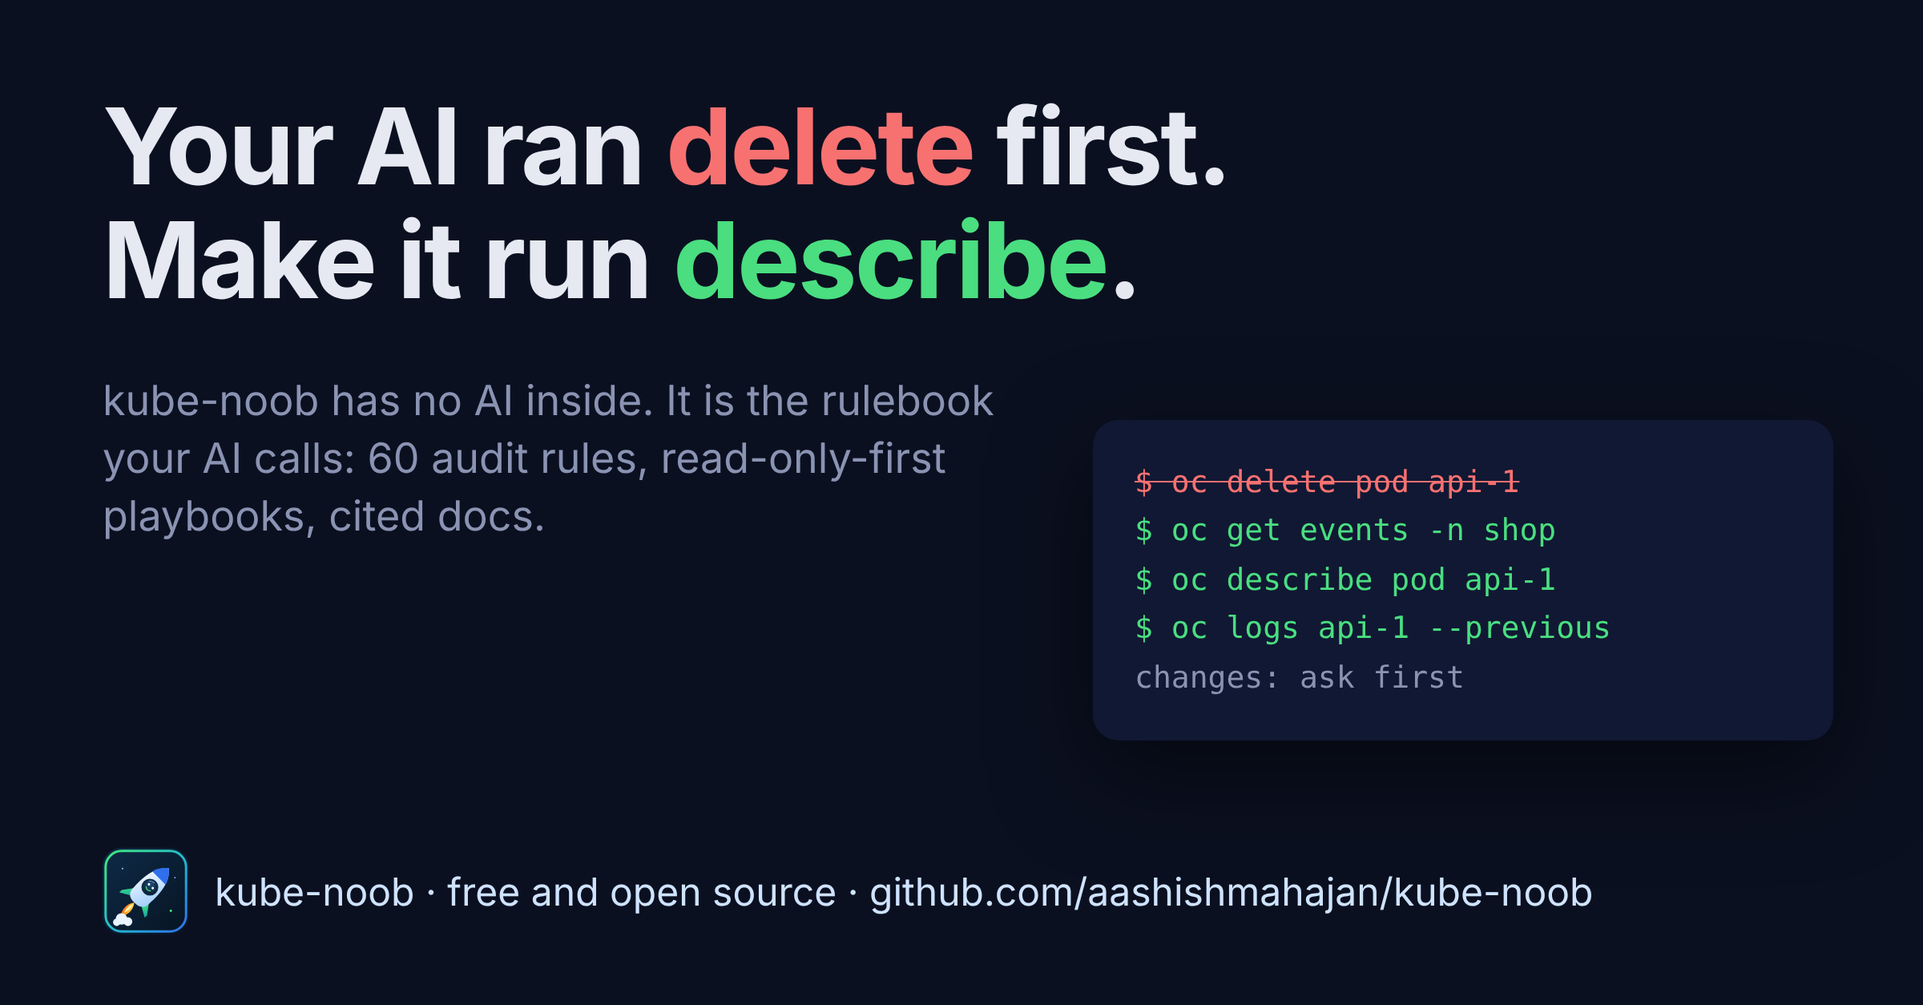
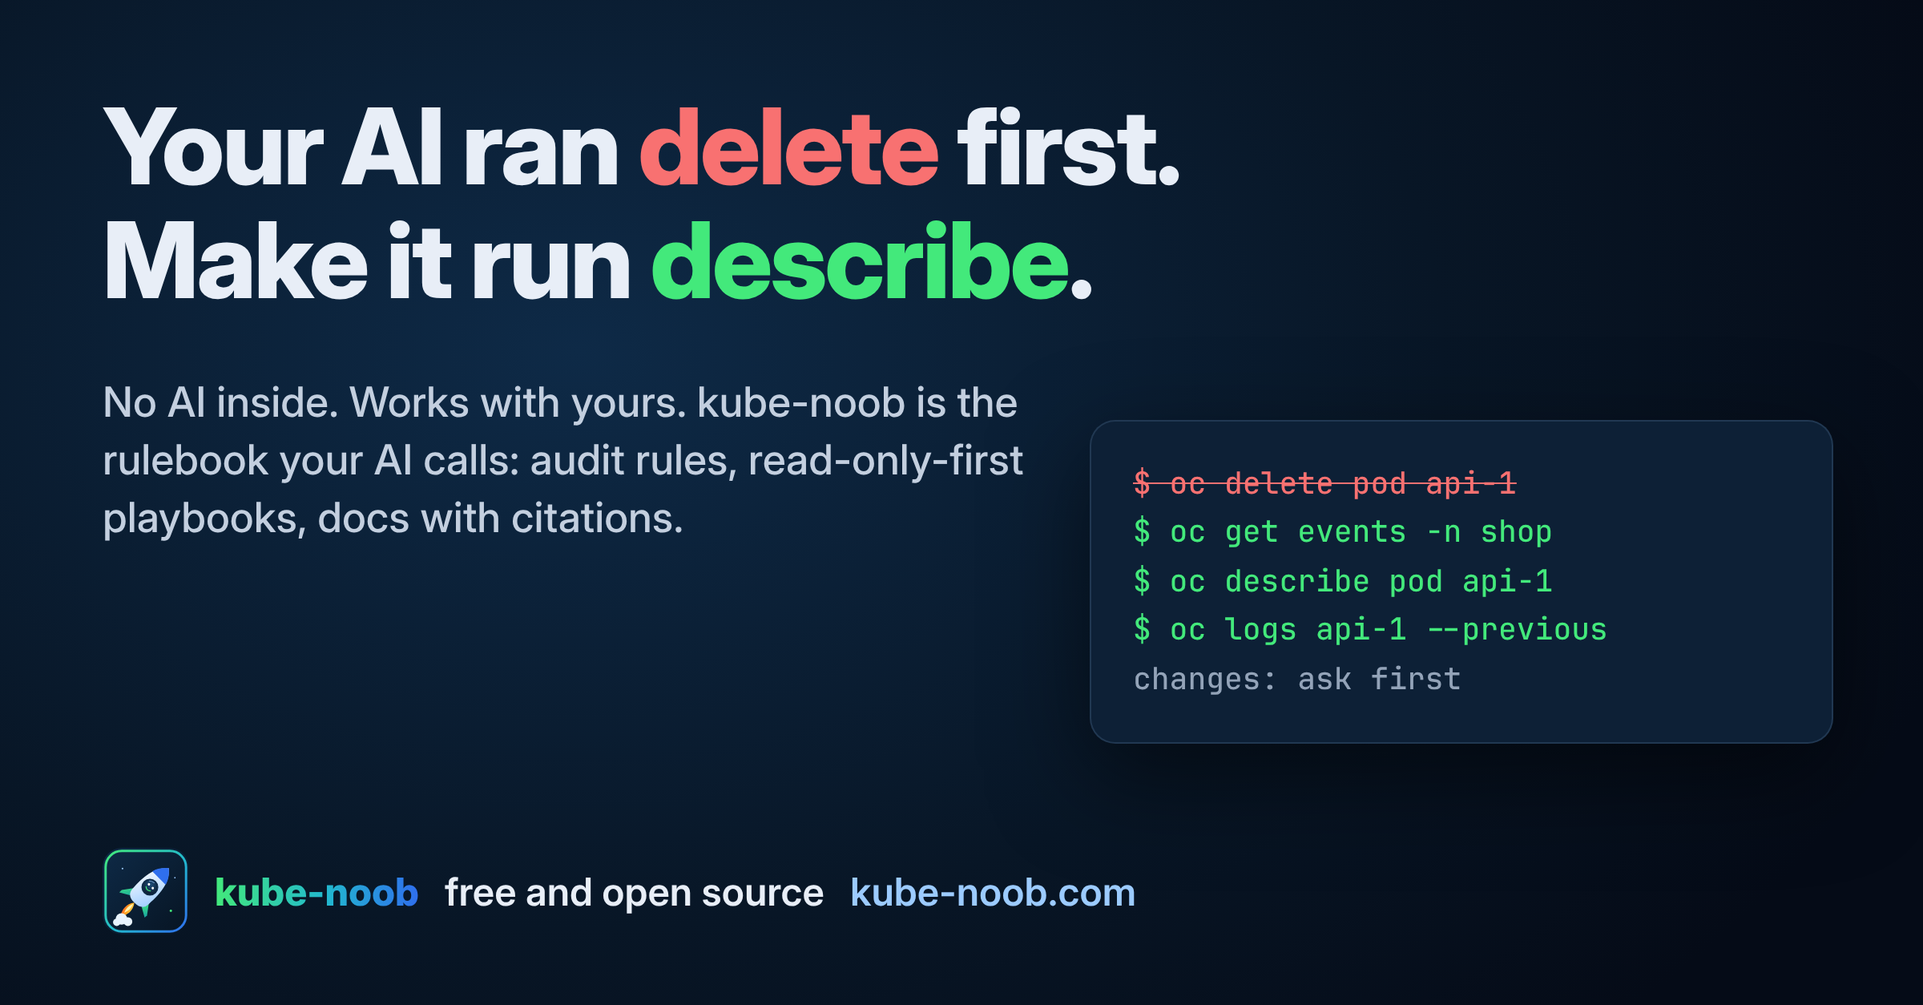
Brand review fixes: brand images in the brand, README counts tested
End-to-end review against docs/brand/BRAND.md:
- BRAND.md named the wrong headline under test. docs/roadmap.md tests the
  tagline against "The ground truth your AI SRE checks against"; that is now
  the line never shown next to the tagline, and "the rulebook your AI calls"
  is the allowed descriptor. tests/test_brand.py reads it from the roadmap.
- LinkedIn banner: "read-only first, cited, offline" overclaimed (not every
  answer is cited) and the CTA was pipx; now "read-only first, offline, the
  same answer every time", uv tool install kube-noob and kube-noob.com.
- LinkedIn post: "60 audit rules" (61); static images now carry no count.
- All four brand images (social preview, banner, post, profile) were drawn in
  whatever Inter the machine had, DejaVu Mono and off-palette colours; they
  now take the bundled fonts, token colours, icon and words through brand.js
  (render.js applies and verifies it, brand-page.js fills the text) and were
  re-rendered.
- README: the trademark line named six of the eleven products the README
  mentions; it is now the full line from tokens.json. Its counts are checked
  against the code (61 rules, 67 playbooks, 9 red-team scenarios, 5 tracks
  and 16 lessons, the 7-step protocol). Kept under its 600-word limit.

Claude-Session: https://claude.ai/code/session_018aFMdzbbPcksN3wUu96SVk

diff --git a/docs/brand/linkedin/post.html b/docs/brand/linkedin/post.html
@@ -1,16 +1,23 @@
-<!doctype html><html><head><meta charset="utf-8"><style>
-html,body{margin:0;width:1200px;height:627px;overflow:hidden;background:#0b1020;color:#e6e9f2;font-family:"Inter","Inter Display",system-ui,sans-serif}
+<!doctype html><html><head><meta charset="utf-8"><title>kube-noob LinkedIn post image</title>
+<!-- 1200x627, rendered at 2x by docs/brand/render.js; fonts, colours, icon and words from the brand (brand.js).
+     No counts: a static image cannot keep a number true; the copy that goes with it can (demos/video/facts.py). -->
+<style>
+html,body{margin:0;width:1200px;height:627px;overflow:hidden;color:var(--kn-ink);font-family:var(--sans);
+  background:radial-gradient(ellipse 900px 600px at 30% 35%, var(--kn-navy) 0%, var(--kn-navy-deep) 60%, var(--kn-navy-night) 100%)}
 .left{position:absolute;left:64px;top:56px;width:1080px}
-h1{font-size:66px;line-height:1.08;margin:0;letter-spacing:-1.5px}
-h1 .no{color:#f87171}.yes{color:#4ade80}
-p{font-size:26px;color:#8a93b2;margin-top:34px;line-height:1.4;width:600px}
-.term{position:absolute;right:56px;top:262px;width:410px;background:#111833;border-radius:16px;padding:24px 26px;font-family:"DejaVu Sans Mono",monospace;font-size:19px;line-height:1.6;box-shadow:0 20px 60px rgba(0,0,0,.5)}
-.x{color:#f87171;text-decoration:line-through}.g{color:#4ade80}.d{color:#8a93b2}
-.foot{position:absolute;left:64px;bottom:44px;display:flex;align-items:center;font-size:24px;color:#cfe3ff}
-.foot img{width:54px;height:54px;margin-right:16px}
+h1{font-size:66px;font-weight:800;line-height:1.08;margin:0;letter-spacing:-1.5px}
+h1 .no{color:var(--kn-danger)}.yes{color:var(--kn-green)}
+p{font-size:26px;font-weight:500;color:var(--kn-ink-soft);margin-top:34px;line-height:1.4;width:600px}
+.term{position:absolute;right:56px;top:262px;width:410px;background:var(--kn-panel);border:1px solid rgba(var(--kn-sky-rgb),.14);border-radius:16px;padding:24px 26px;font:500 19px/1.6 var(--mono);box-shadow:0 20px 60px rgba(0,0,0,.5)}
+.x{color:var(--kn-danger);text-decoration:line-through}.g{color:var(--kn-green)}.d{color:var(--kn-muted)}
+.foot{position:absolute;left:64px;bottom:44px;display:flex;align-items:center;gap:16px;font-size:24px;font-weight:600}
+.foot img{width:54px;height:54px;border-radius:12px}
+.foot .wm{font-weight:800;background:linear-gradient(90deg,var(--kn-green),var(--kn-teal) 55%,var(--kn-blue));-webkit-background-clip:text;background-clip:text;color:transparent}
+.foot .url{color:var(--kn-sky)}
 </style></head><body>
 <div class="left"><h1>Your AI ran <span class="no">delete</span> first.<br>Make it run <span class="yes">describe</span>.</h1>
-<p>kube-noob has no AI inside. It is the rulebook your AI calls: 60 audit rules, read-only-first playbooks, cited docs.</p></div>
+<p><span data-kn="tagline"></span> kube-noob is the rulebook your AI calls: audit rules, read-only-first playbooks, docs with citations.</p></div>
 <div class="term"><div class="x">$ oc delete pod api-1</div><div class="g">$ oc get events -n shop</div><div class="g">$ oc describe pod api-1</div><div class="g">$ oc logs api-1 --previous</div><div class="d">changes: ask first</div></div>
[1 lines of base64/hex data omitted]
+<div class="foot"><img alt=""><span class="wm">kube-noob</span><span>free and open source</span><span class="url" data-kn="url"></span></div>
+<script src="../brand-page.js"></script>
 </body></html>

diff --git a/docs/brand/linkedin/banner.html b/docs/brand/linkedin/banner.html
@@ -1,15 +1,20 @@
-<!doctype html><html><head><meta charset="utf-8"><style>
-html,body{margin:0;width:1584px;height:396px;overflow:hidden;background:linear-gradient(110deg,#071422 0%,#0e2a47 60%,#123a63 100%);color:#e6e9f2;font-family:"Inter","Inter Display",system-ui,sans-serif}
+<!doctype html><html><head><meta charset="utf-8"><title>kube-noob LinkedIn banner</title>
+<!-- 1584x396, rendered at 2x by docs/brand/render.js; fonts, colours, icon and words from the brand (brand.js). -->
+<style>
+html,body{margin:0;width:1584px;height:396px;overflow:hidden;color:var(--kn-ink);font-family:var(--sans);
+  background:linear-gradient(110deg,var(--kn-navy-night) 0%,var(--kn-navy-deep) 35%,var(--kn-navy) 100%)}
 .left{position:absolute;left:360px;top:78px;width:860px}
-h1{font-size:46px;white-space:nowrap;margin:0;letter-spacing:-1px;line-height:1.05}
-h1 span{color:#43E97B}
-p{font-size:28px;color:#9fb0d0;margin:22px 0 0}
-.pills{position:absolute;left:360px;bottom:46px;font-family:"DejaVu Sans Mono",monospace;font-size:22px;color:#cfe3ff}
-.pills b{background:rgba(255,255,255,.08);border:1px solid rgba(255,255,255,.14);border-radius:10px;padding:8px 14px;margin-right:12px;font-weight:normal}
+h1{font-size:46px;font-weight:800;white-space:nowrap;margin:0;letter-spacing:-1px;line-height:1.05}
+h1 span{color:var(--kn-green)}
+p{font-size:28px;font-weight:500;color:var(--kn-ink-soft);margin:22px 0 0}
+.pills{position:absolute;left:360px;bottom:46px;font:500 22px var(--mono);color:var(--kn-green-soft)}
+.pills b{background:rgba(255,255,255,.06);border:1px solid rgba(var(--kn-green-rgb),.35);border-radius:10px;padding:8px 14px;margin-right:12px;font-weight:500}
+.pills .url{font-family:var(--sans);font-weight:600;color:var(--kn-sky);border-color:rgba(var(--kn-sky-rgb),.35)}
 img{position:absolute;right:56px;top:83px;width:230px;height:230px;filter:drop-shadow(0 20px 40px rgba(0,0,0,.5))}
 </style></head><body>
 <div class="left"><h1>No AI inside. <span>Works with yours.</span></h1>
-<p>The Kubernetes and OpenShift rulebook your AI is missing:<br>read-only first, cited, offline.</p></div>
-<div class="pills"><b>pipx install kube-noob</b><b>brew</b><b>Claude plugin</b><b>OpenShift sidecar</b></div>
[1 lines of base64/hex data omitted]
+<p>The Kubernetes and OpenShift rulebook your AI calls:<br>read-only first, offline, the same answer every time.</p></div>
+<div class="pills"><b data-kn="install"></b><b>Claude plugin</b><b>OpenShift sidecar</b><b class="url" data-kn="url"></b></div>
+<img alt="">
+<script src="../brand-page.js"></script>
 </body></html>

diff --git a/docs/brand/linkedin/profile.html b/docs/brand/linkedin/profile.html
@@ -1,5 +1,10 @@
-<!doctype html><html><head><meta charset="utf-8"><style>
-html,body{margin:0;width:800px;height:800px;overflow:hidden;background:radial-gradient(circle at 30% 25%,#123a63 0%,#0a1a2e 55%,#060e1a 100%);}
+<!doctype html><html><head><meta charset="utf-8"><title>kube-noob LinkedIn profile image</title>
+<!-- 800x800, rendered at 3x by docs/brand/render.js; colours and the icon from the brand (brand.js). -->
+<style>
+html,body{margin:0;width:800px;height:800px;overflow:hidden;font-family:var(--sans);
+  background:radial-gradient(circle at 30% 25%,var(--kn-navy) 0%,var(--kn-navy-deep) 55%,var(--kn-navy-night) 100%)}
 .wrap{position:absolute;inset:0;display:flex;align-items:center;justify-content:center}
 img{width:560px;height:560px;filter:drop-shadow(0 30px 60px rgba(0,0,0,.55))}
[1 lines of base64/hex data omitted]
+</style></head><body><div class="wrap"><img alt=""></div>
+<script src="../brand-page.js"></script>
+</body></html>

diff --git a/docs/brand/social-preview.html b/docs/brand/social-preview.html
@@ -3,33 +3,37 @@
 <head>
 <meta charset="utf-8">
 <title>kube-noob social preview</title>
-<!-- README hero and GitHub social preview. Rendered by docs/brand/render.js at 2x (2560x1280) and 1x (1280x640). -->
+<!-- README hero and GitHub social preview. Rendered by docs/brand/render.js at 2x (2560x1280) and 1x (1280x640);
+     fonts, colours, the icon and the words come from tokens.json through demos/video/brand.js. -->
 <style>
   * { box-sizing: border-box; margin: 0; }
   html, body { width: 1280px; height: 640px; overflow: hidden; }
-  body { font-family: "Inter", "Inter Display", system-ui, sans-serif; color: #f3f7ff;
-    background: radial-gradient(ellipse 1000px 620px at 30% 35%, #17386a 0%, #0d2245 52%, #081631 100%); }
+  body { font-family: var(--sans); color: var(--kn-ink);
+    background: radial-gradient(ellipse 1000px 620px at 30% 35%, var(--kn-navy) 0%, var(--kn-navy-deep) 52%, var(--kn-navy-night) 100%); }
   .glow { position: absolute; left: 70px; top: 150px; width: 360px; height: 360px; border-radius: 50%;
-    background: radial-gradient(closest-side, rgba(67, 233, 123, .22), transparent); }
+    background: radial-gradient(closest-side, rgba(var(--kn-green-rgb), .22), transparent); }
   .wrap { position: absolute; left: 92px; top: 0; height: 640px; display: flex; align-items: center; gap: 58px; }
   img { width: 300px; height: 300px; filter: drop-shadow(0 18px 40px rgba(0, 0, 0, .45)); }
-  .wm { font: 800 142px/0.95 "Inter Display", "Inter", sans-serif; letter-spacing: -0.035em; padding-bottom: 10px;
-    background: linear-gradient(90deg, #43e97b, #22b8cf 55%, #2f6fed); -webkit-background-clip: text; background-clip: text; color: transparent; }
+  .wm { font: 800 142px/0.95 var(--sans); letter-spacing: -0.035em; padding-bottom: 10px;
+    background: linear-gradient(90deg, var(--kn-green), var(--kn-teal) 55%, var(--kn-blue)); -webkit-background-clip: text; background-clip: text; color: transparent; }
   .tag { font-weight: 700; font-size: 40px; letter-spacing: -0.01em; margin-top: 18px; }
-  .plat { font-weight: 500; font-size: 27px; color: #bcd3f2; margin-top: 22px; }
-  .surf { font-weight: 600; font-size: 24px; color: #4ade80; margin-top: 14px; }
+  .plat { font-weight: 500; font-size: 27px; color: var(--kn-ink-soft); margin-top: 22px; }
+  .surf { font-weight: 600; font-size: 24px; color: var(--kn-green); margin-top: 14px; }
+  .url { font-weight: 600; font-size: 26px; color: var(--kn-sky); margin-top: 18px; }
 </style>
 </head>
 <body>
   <div class="glow"></div>
   <div class="wrap">
-    <img src="kube-noob-icon.svg" alt="">
+    <img alt="">
     <div>
       <div class="wm">kube-noob</div>
-      <div class="tag">No AI inside. Works with yours.</div>
-      <div class="plat">Kubernetes · OpenShift · ROSA HCP · Helm · RHACS</div>
-      <div class="surf">CLI · Claude plugin · MCP server · OpenShift sidecar</div>
+      <div class="tag" data-kn="tagline"></div>
+      <div class="plat" data-kn="platforms"></div>
+      <div class="surf" data-kn="surfaces"></div>
+      <div class="url" data-kn="url"></div>
     </div>
   </div>
+<script src="brand-page.js"></script>
 </body>
 </html>

diff --git a/docs/brand/render.js b/docs/brand/render.js
@@ -3,11 +3,14 @@
 //
 // Each page is laid out at the size the platform recommends and rendered at 2x or 3x that, so it stays sharp on
 // high-density screens; platforms scale it down themselves. Uploads with a size cap get their own copy.
-// Needs: Node with the `playwright` package and Chromium.
+// Fonts, colours, the icon and the words come from tokens.json through demos/video/brand.js (and brand-page.js), as
+// in the videos; a render stops if a brand font did not load.
+// Needs: Node with the `playwright` package and Chromium (demos/video/package.json pins it).
 'use strict';
 const fs = require('fs');
 const path = require('path');
 const { chromium } = require('playwright');
+const { applyBrand, verifyBrand } = require('../../demos/video/brand');
 
 const HERE = __dirname;
 const JOBS = [
@@ -26,9 +29,13 @@ async function main() {
   const browser = await chromium.launch();
   for (const [src, [w, h], scale, name] of JOBS) {
     const page = await browser.newPage({ viewport: { width: w, height: h }, deviceScaleFactor: scale });
+    const errors = [];
+    page.on('pageerror', e => errors.push(String(e)));
+    await applyBrand(page); // fonts, colours, the icon and the words from tokens.json
     await page.goto('file://' + path.join(HERE, src));
-    await page.evaluate(() => document.fonts.ready);
-    await page.waitForFunction(() => [...document.images].every(i => i.complete));
+    await page.evaluate(() => window.__ready);
+    await verifyBrand(page); // stops if a brand font did not load
+    if (errors.length) throw new Error(`${src}: ${errors[0]}`);
     const file = path.join(out, name);
     fs.mkdirSync(path.dirname(file), { recursive: true });
     await page.screenshot({ path: file });

diff --git a/docs/brand/brand-page.js b/docs/brand/brand-page.js
@@ -1,0 +1,11 @@
+// Fills a brand image page from the brand (window.__KN_BRAND__, injected by demos/video/brand.js through render.js):
+// every <img> gets the icon, every [data-kn="<token>"] gets that token's text. window.__ready resolves when the
+// icon has decoded. A page opened without render.js says so instead of rendering in the wrong fonts.
+(() => {
+  const KN = window.__KN_BRAND__;
+  if (!KN) throw new Error('kube-noob brand missing: render this page with docs/brand/render.js');
+  for (const el of document.querySelectorAll('[data-kn]')) el.textContent = KN.tokens[el.dataset.kn];
+  const imgs = [...document.querySelectorAll('img')];
+  for (const img of imgs) img.src = KN.icon;
+  window.__ready = Promise.all(imgs.map(i => i.decode()));
+})();

diff --git a/tests/test_brand.py b/tests/test_brand.py
@@ -17,6 +17,7 @@ ROOT = Path(__file__).resolve().parents[1]
 BRAND = ROOT / "docs" / "brand"
 VIDEO = ROOT / "demos" / "video"
 PAGES = [VIDEO / "player.html", VIDEO / "thumbnail.html", VIDEO / "stage" / "stage.html"]
+IMAGES = [BRAND / "social-preview.html", *sorted((BRAND / "linkedin").glob("*.html"))]
 SCRIPTS = [
     VIDEO / "stage" / "videos.json",
     ROOT / "demos" / "youtube-walkthrough.md",
@@ -86,15 +87,66 @@ def test_video_scripts_use_the_brand_call_to_action() -> None:
     assert sum(spoken in s.get("vo", "") for v in spec["videos"].values() for s in v["scenes"]) >= 3
 
 
+HEADLINE_UNDER_TEST = "ground truth your AI SRE checks against"  # docs/roadmap.md, the A/B test against the tagline
+
+
 def test_tagline_never_sits_next_to_the_headline_under_test() -> None:
-    sources = [*PAGES, VIDEO / "stage" / "videos.json", VIDEO / "build_scenes.py"]
+    assert HEADLINE_UNDER_TEST in (ROOT / "docs" / "roadmap.md").read_text(encoding="utf-8")
+    assert f'"The {HEADLINE_UNDER_TEST}"' in (BRAND / "BRAND.md").read_text(encoding="utf-8")
+    sources = [*PAGES, VIDEO / "stage" / "videos.json", VIDEO / "build_scenes.py", ROOT / "README.md", *IMAGES]
     for f in sources:
-        assert "rulebook your AI is missing" not in f.read_text(encoding="utf-8"), f
+        assert HEADLINE_UNDER_TEST.lower() not in f.read_text(encoding="utf-8").lower(), f
     desc = (ROOT / "demos" / "youtube-walkthrough.md").read_text(encoding="utf-8").split("**Description:**", 1)[1]
     desc = desc.split("```", 2)[1]
     lower = desc.lower()
-    assert _tokens()["tagline"].lower().rstrip(".") in lower and "rulebook your ai is missing" not in lower
+    assert _tokens()["tagline"].lower().rstrip(".") in lower and HEADLINE_UNDER_TEST.lower() not in lower
     assert _tokens()["trademarks"] in desc
+
+
+def _protocol_steps() -> int:
+    from kube_noob.config import load_settings
+    from kube_noob.toolkit import ProtocolIn, Toolkit
+
+    blueprint = __import__("yaml").safe_load((ROOT / "examples" / "blueprint.yaml").read_text(encoding="utf-8"))
+    kit = Toolkit(load_settings(overrides={"offline": True}))
+    return len(kit.run_protocol(ProtocolIn(request="Deploy orders-api on ROSA HCP", blueprint=blueprint))["steps"])
+
+
+def test_public_copy_counts_match_the_code() -> None:
+    import yaml
+
+    from kube_noob.audit.engine import list_rules
+    from kube_noob.audit.redteam import SCENARIOS
+    from kube_noob.debug.playbooks import PLAYBOOKS
+
+    readme = " ".join((ROOT / "README.md").read_text(encoding="utf-8").split())
+    tracks = yaml.safe_load((ROOT / "src" / "kube_noob" / "data" / "curriculum.yaml").read_text())["tracks"]
+    for phrase in (
+        f"{len(list_rules())} rules",
+        f"{len(PLAYBOOKS)} offline playbooks",
+        f"{len(SCENARIOS)} red-team scenarios",
+        f"{len(tracks)} tracks, {sum(len(t.get('lessons', [])) for t in tracks)} lessons",
+        f"{_protocol_steps()}-step protocol",
+    ):
+        assert phrase in readme, f"README.md should say {phrase!r}"
+    assert _tokens()["trademarks"] in readme  # every name the README uses, on every public page
+
+
+def test_brand_images_take_fonts_colours_and_claims_from_the_brand() -> None:
+    colors = _tokens()["colors"]
+    for page in IMAGES:
+        text = page.read_text(encoding="utf-8")
+        assert "brand-page.js" in text and "var(--sans)" in text, page  # filled from the brand, refuses without it
+        for system_font in ("DejaVu", "system-ui", '"Inter"', '"Inter Display"'):
+            assert system_font not in text, (page, system_font)
+        lower = text.lower()
+        for name, hex_ in colors.items():
+            assert hex_.lower() not in lower, f"{page.name} hard-codes {name} {hex_}"
+        assert "cited, offline" not in text and "pipx install" not in text, page  # claims and CTA from BRAND.md
+        assert not re.search(r"\b\d+ (audit )?rules\b", text), page  # a static image cannot keep a count true
+    assert "window.__KN_BRAND__" in (BRAND / "brand-page.js").read_text(encoding="utf-8")
+    render = (BRAND / "render.js").read_text(encoding="utf-8")
+    assert "applyBrand" in render and "verifyBrand" in render
 
 
 def test_walkthrough_cards_carry_no_hard_coded_repository_url() -> None:

diff --git a/README.md b/README.md
@@ -49,7 +49,7 @@ kube-noob doctor
 kube-noob selftest
 ```
 
-No Homebrew: `uv tool install kube-noob` or `pipx install kube-noob` (Python 3.11+). Errors: [install](https://github.com/aashishmahajan/kube-noob/blob/main/docs/install.md).
+No Homebrew: `uv tool install kube-noob` (Python 3.11+). Errors: [install](https://github.com/aashishmahajan/kube-noob/blob/main/docs/install.md).
 
 ## Use with Claude or any MCP client
 
@@ -70,7 +70,7 @@ Any MCP client:
 
 ## Run on OpenShift
 
-As a token-protected service, loopback-only sidecar, or OpenShift Lightspeed tool:
+As a token-protected service, loopback-only sidecar or Lightspeed tool:
 [docs/openshift.md](https://github.com/aashishmahajan/kube-noob/blob/main/docs/openshift.md). The chart ships
 NetworkPolicies and runs under `restricted-v2`.
 
@@ -98,6 +98,7 @@ NetworkPolicies and runs under `restricted-v2`.
 
 ## Credits
 
-Credited sources: [THIRD_PARTY_NOTICES.md](https://github.com/aashishmahajan/kube-noob/blob/main/THIRD_PARTY_NOTICES.md). Kubernetes, OpenShift, Helm,
-ROSA, RHACS and StackRox are trademarks of their owners; kube-noob is independent and not endorsed by them.
-Licensed under [Apache-2.0](https://github.com/aashishmahajan/kube-noob/blob/main/LICENSE).
+Notices: [THIRD_PARTY_NOTICES.md](https://github.com/aashishmahajan/kube-noob/blob/main/THIRD_PARTY_NOTICES.md).
+Kubernetes, Helm, OpenShift, ROSA, RHACS, StackRox, OpenShift Lightspeed, Claude, Anthropic, GitHub and AWS are
+trademarks of their respective owners; kube-noob is independent and not endorsed by them.
+License: [Apache-2.0](https://github.com/aashishmahajan/kube-noob/blob/main/LICENSE).

diff --git a/docs/brand/BRAND.md b/docs/brand/BRAND.md
@@ -9,8 +9,9 @@ keeps the two in step.
 - **kube-noob**: always lowercase and hyphenated, also at the start of a sentence. Short form for the command: `noob`.
 - **Tagline: "No AI inside. Works with yours."** Locked. kube-noob is the rulebook your AI calls as tools; copy never
   calls kube-noob an AI, assistant, chatbot or agent (`tests/test_guidance.py` enforces this in the docs).
-- The second headline under test, "The Kubernetes rulebook your AI is missing", is never shown next to the tagline:
-  the A/B test in the roadmap decides between them.
+- The headline under test, "The ground truth your AI SRE checks against" ([roadmap](../roadmap.md)), is never shown
+  next to the tagline: the A/B test decides between them. "The Kubernetes rulebook your AI calls" may describe the
+  product under the tagline; say "rulebook", never "AI", for kube-noob itself.
 - Call to action: `uv tool install kube-noob` and **kube-noob.com**. Spoken: "Get it at kube-noob dot com." Never "link
   below": the same video plays on the website, YouTube and LinkedIn.
 

diff --git a/CHANGELOG.md b/CHANGELOG.md
@@ -37,6 +37,12 @@
   on every frame and stills of every scene, with `--engine silent` (no voice model; the same timing). Playwright is
   pinned in `demos/video/package-lock.json`.
 - `tests/test_guidance.py` checks rows G100 and later too (it matched only two-digit ids).
+- Brand review: the social preview, LinkedIn banner, post and profile images are rendered in the bundled fonts and
+  the brand colours (`docs/brand/render.js` through `brand.js`) and carry kube-noob.com; the banner no longer says
+  "cited" or "pipx install" and the post no longer says "60 audit rules" (61, and a static image now carries no
+  count). BRAND.md names the roadmap's headline under test ("The ground truth your AI SRE checks against"). The
+  README's trademark line names every product it mentions, and `tests/test_brand.py` checks its counts (rules,
+  playbooks, red-team scenarios, tracks and lessons, protocol steps) against the code.
 
 ## 0.6.0 - 2026-10-29
 
